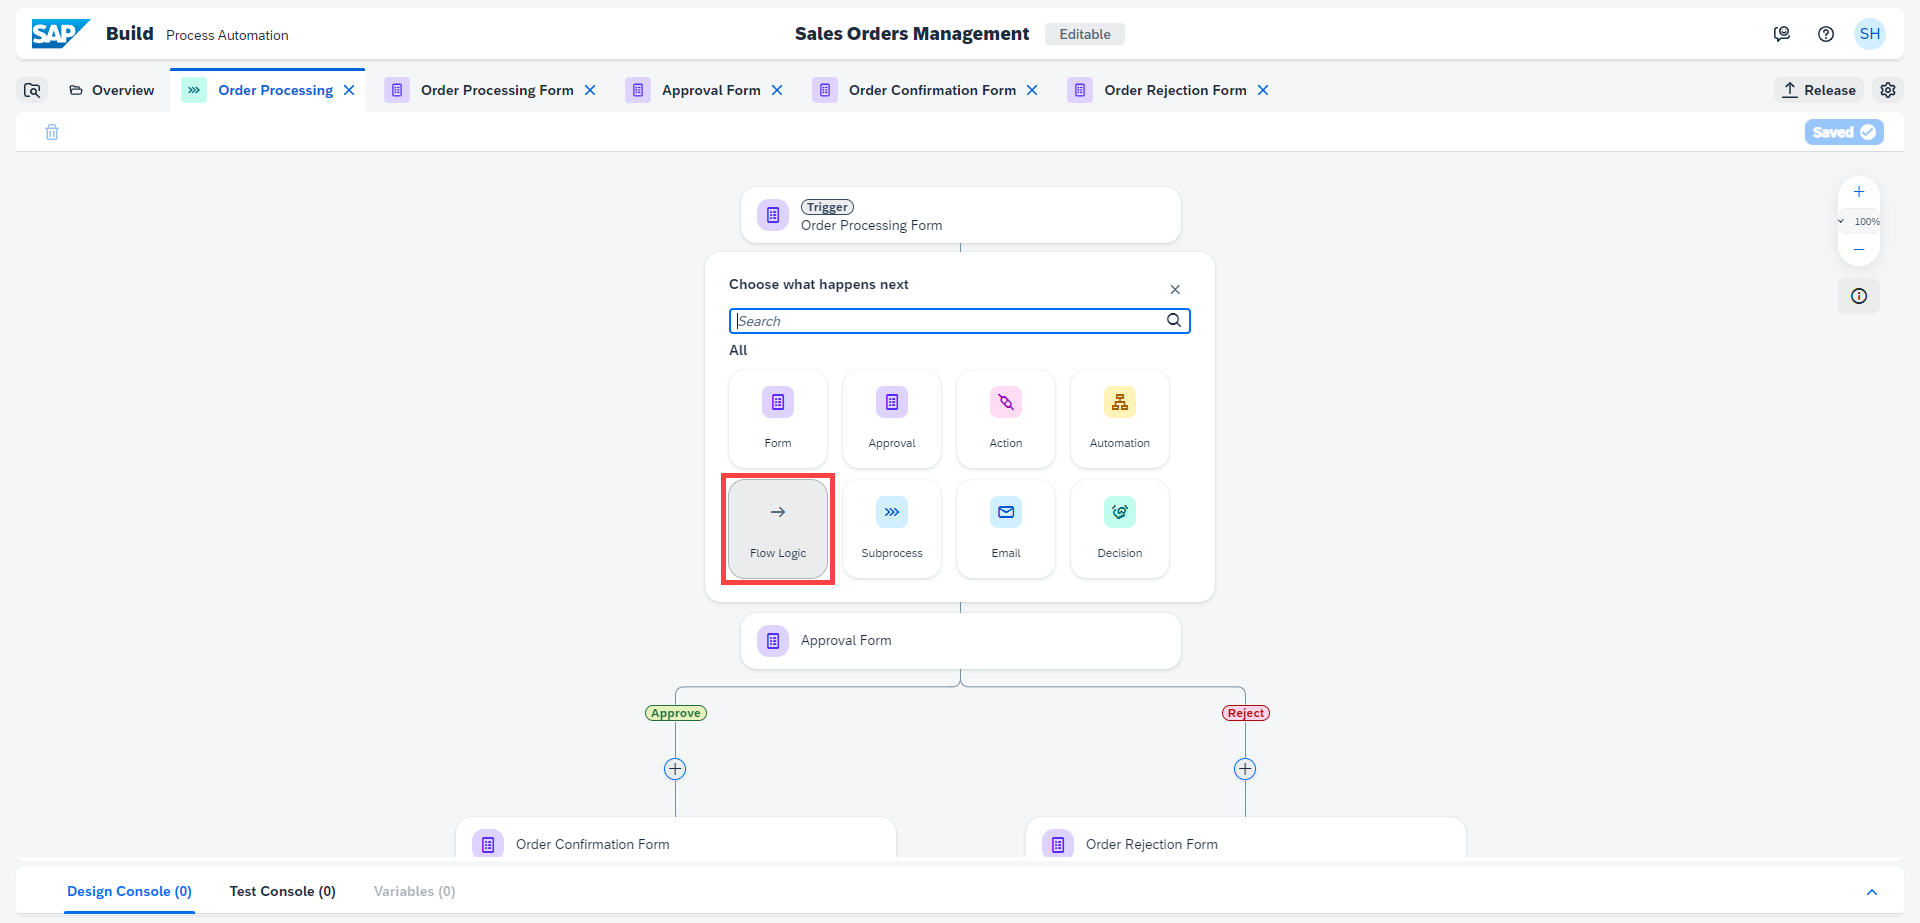
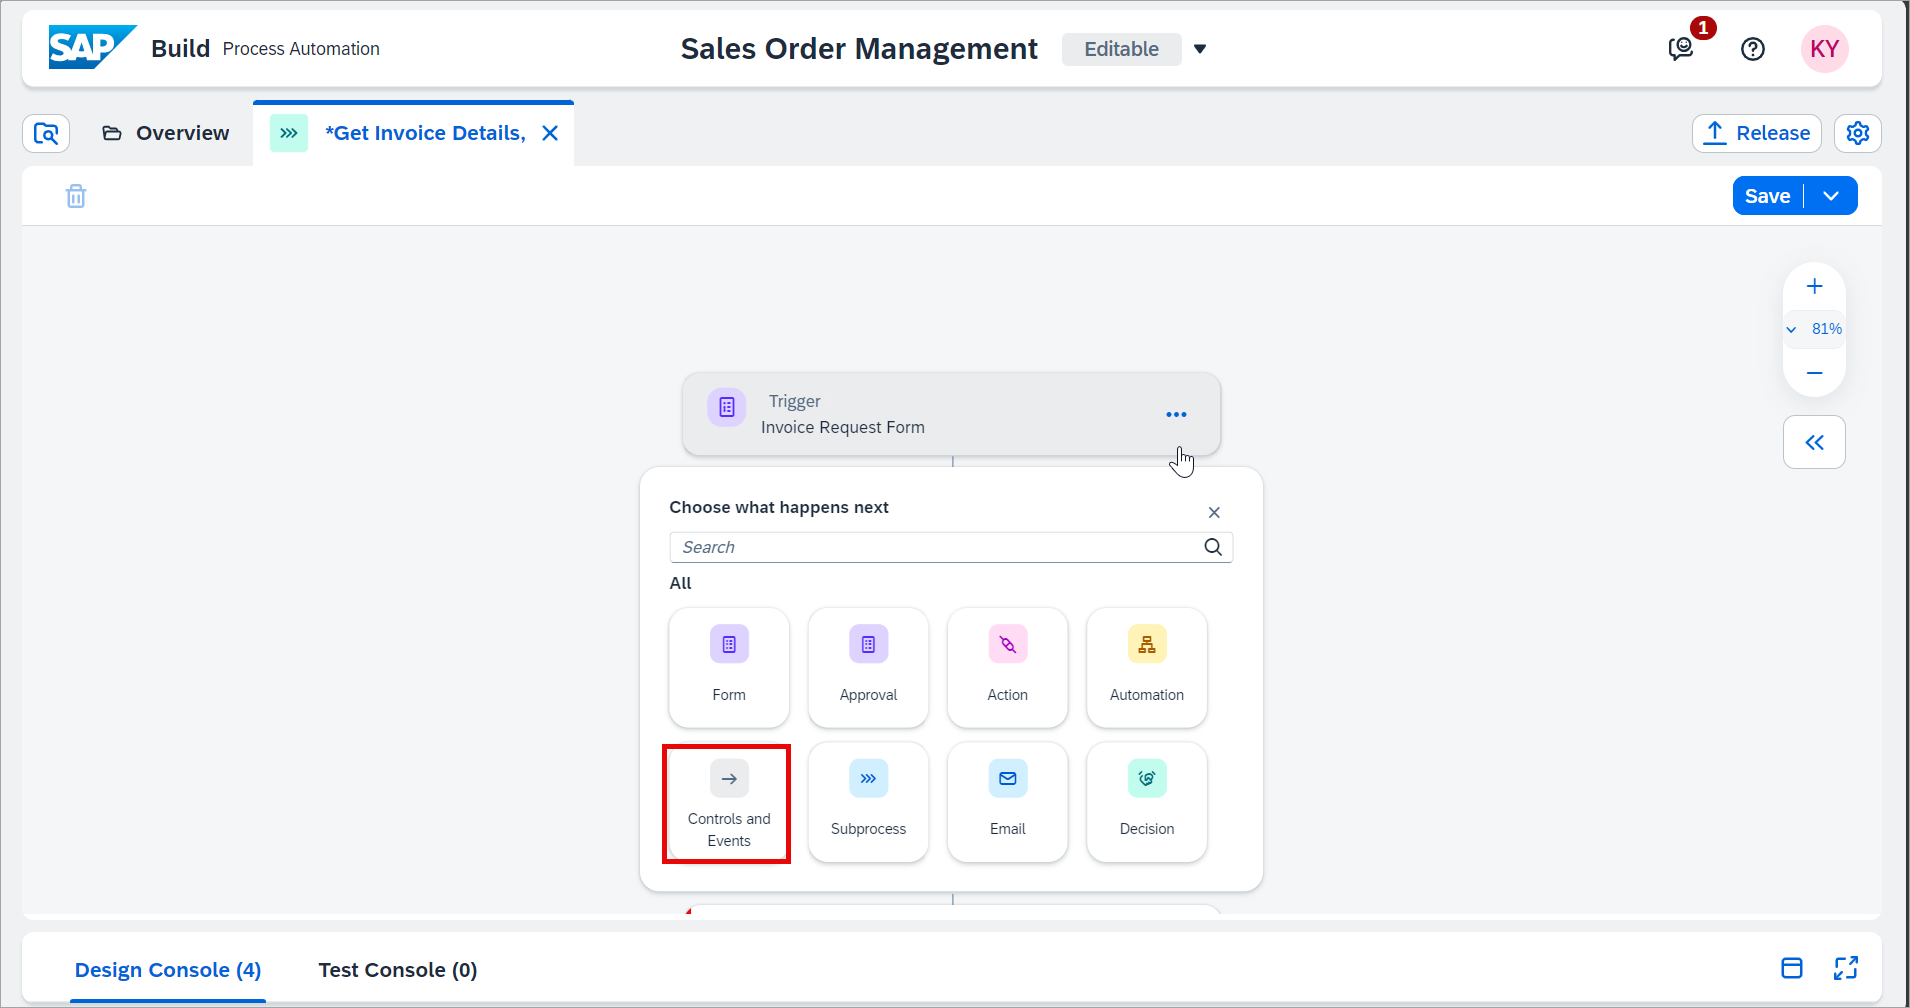
Bug fix for "https://github.com/sap-tutorials/sap-build-process-automation/issues/187"

diff --git a/tutorials/spa-vl-create-process-condition/spa-vl-create-process-condition.md b/tutorials/spa-vl-create-process-condition/spa-vl-create-process-condition.md
@@ -35,7 +35,7 @@ Once the process with forms is designed, define which process flow should run ba
 
     <!-- border -->![Process Condition](001a.png)
 
-2. Choose **Flow Logic**.
+2. Choose **Controls and Events**.
 
     <!-- border -->![Process Condition](001b.png)
    
